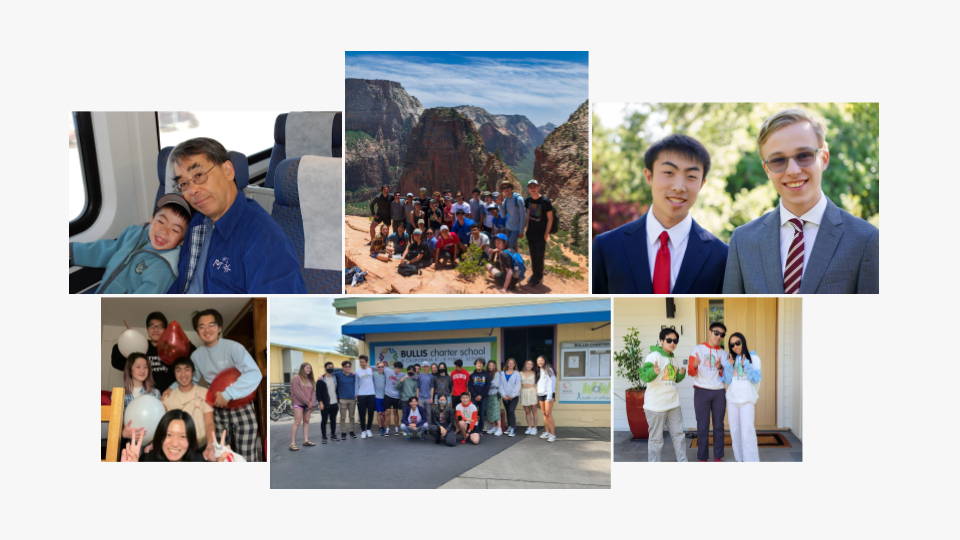
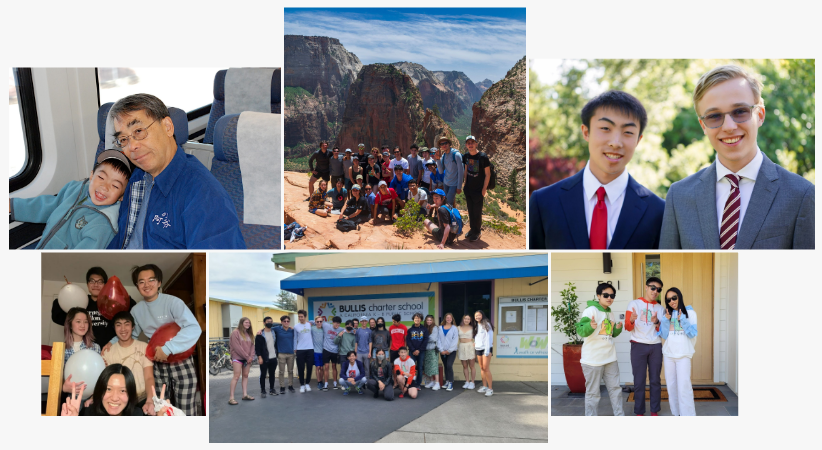
made header image larger

diff --git a/homepage/homepage.py b/homepage/homepage.py
@@ -42,7 +42,10 @@ class RenderHomePage(HydraHeadApp):
 
         with columns[1]:
 
-            st.image("./resources/homepage/homepage_header.png")
+            st.image(
+                image="./resources/homepage/homepage_header.png",
+                use_column_width="auto"
+            )
 
             st.write(
                 """
